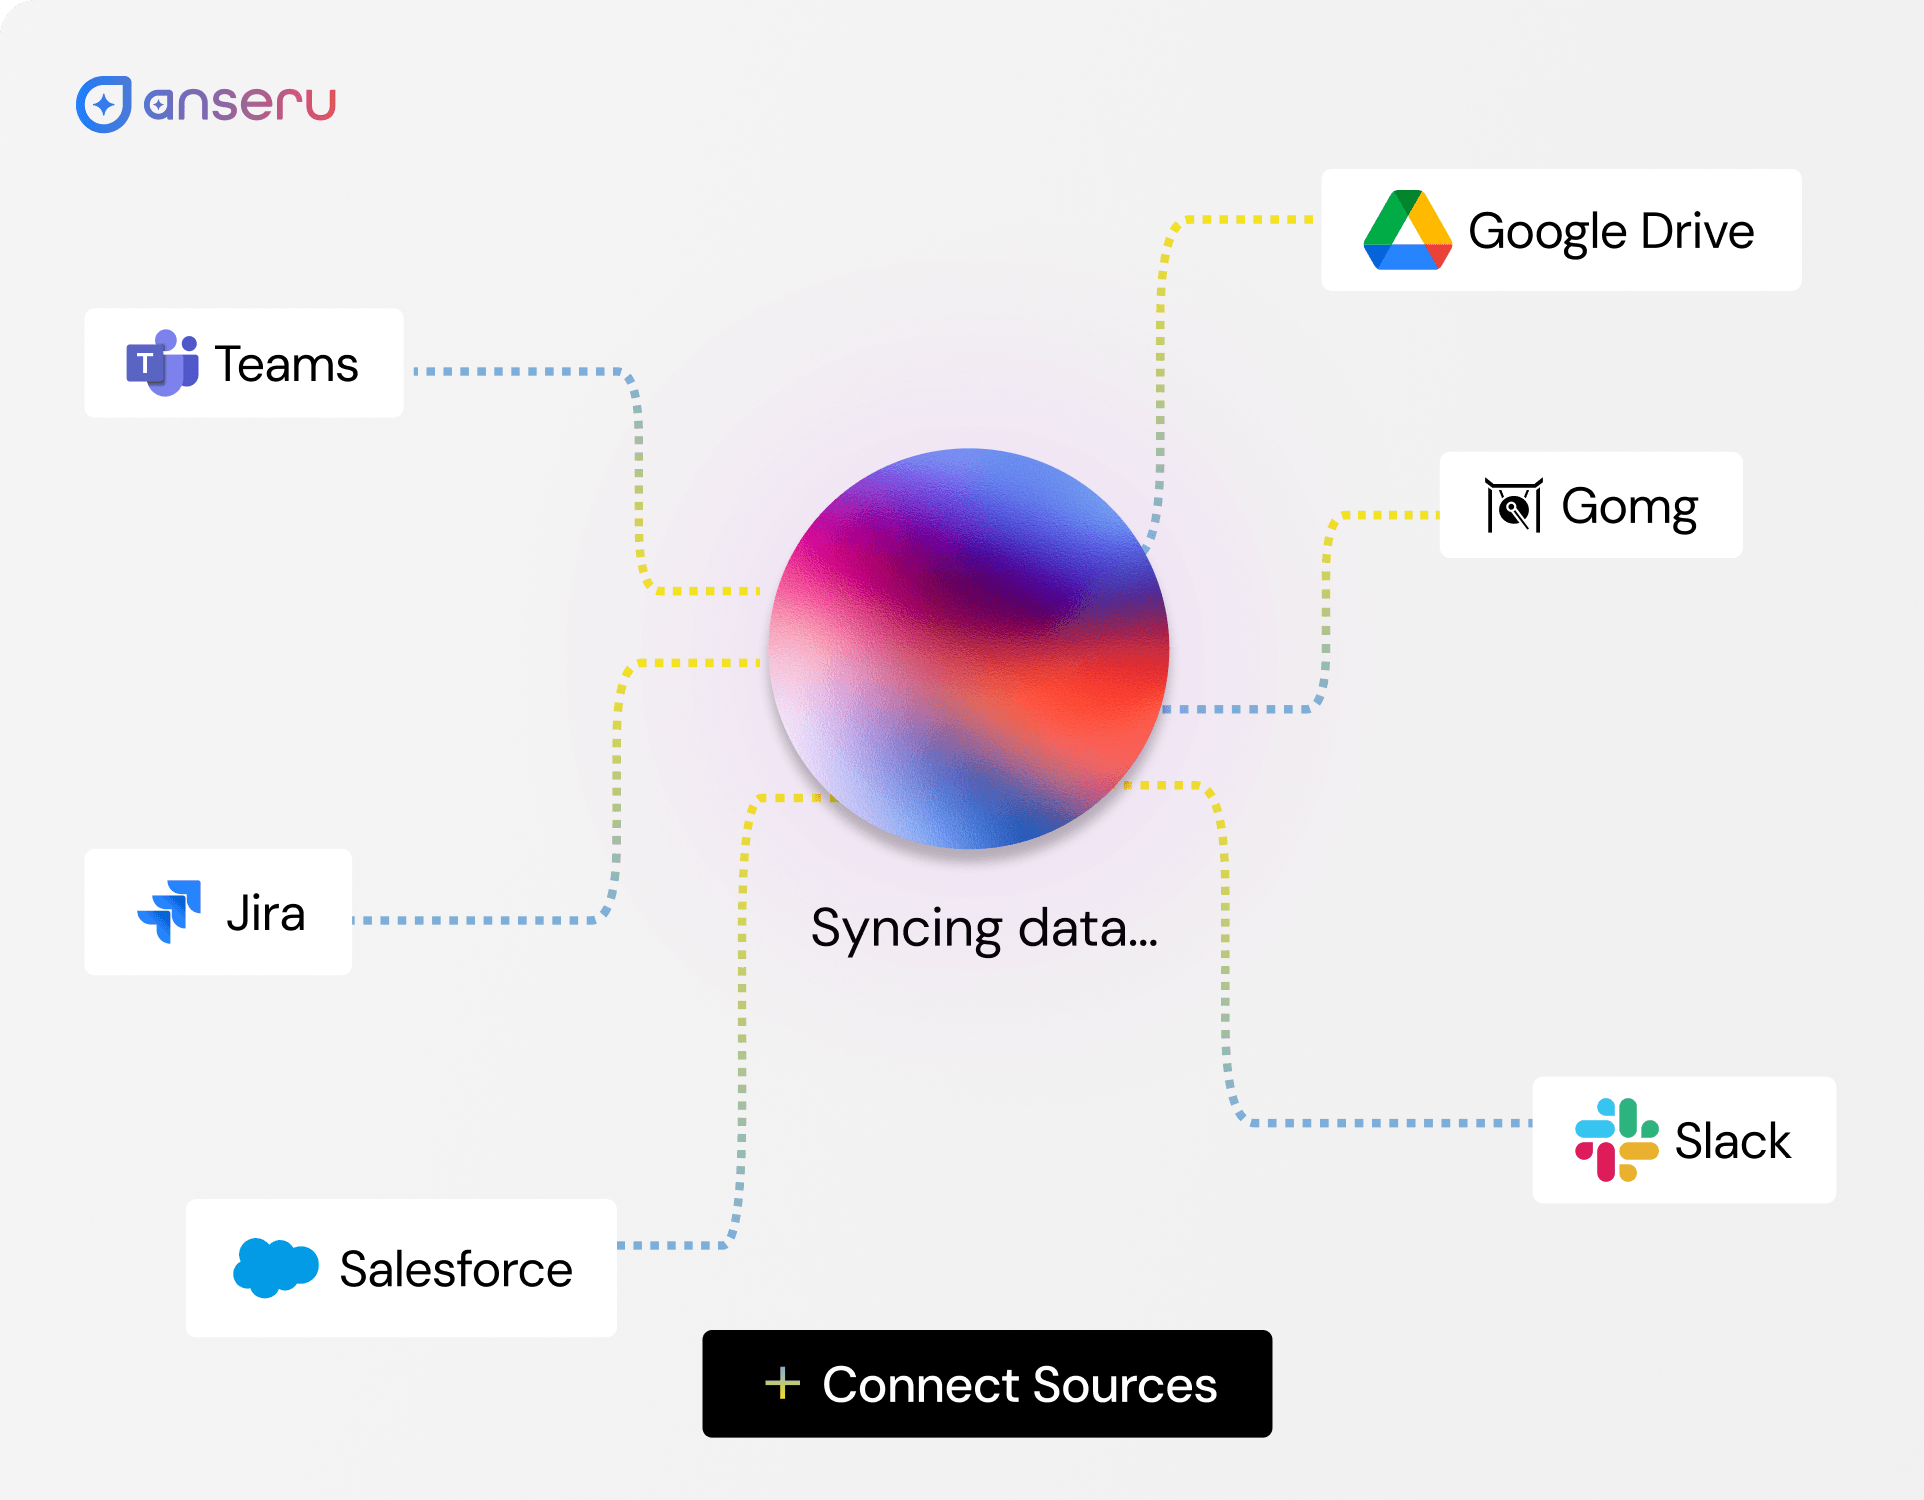
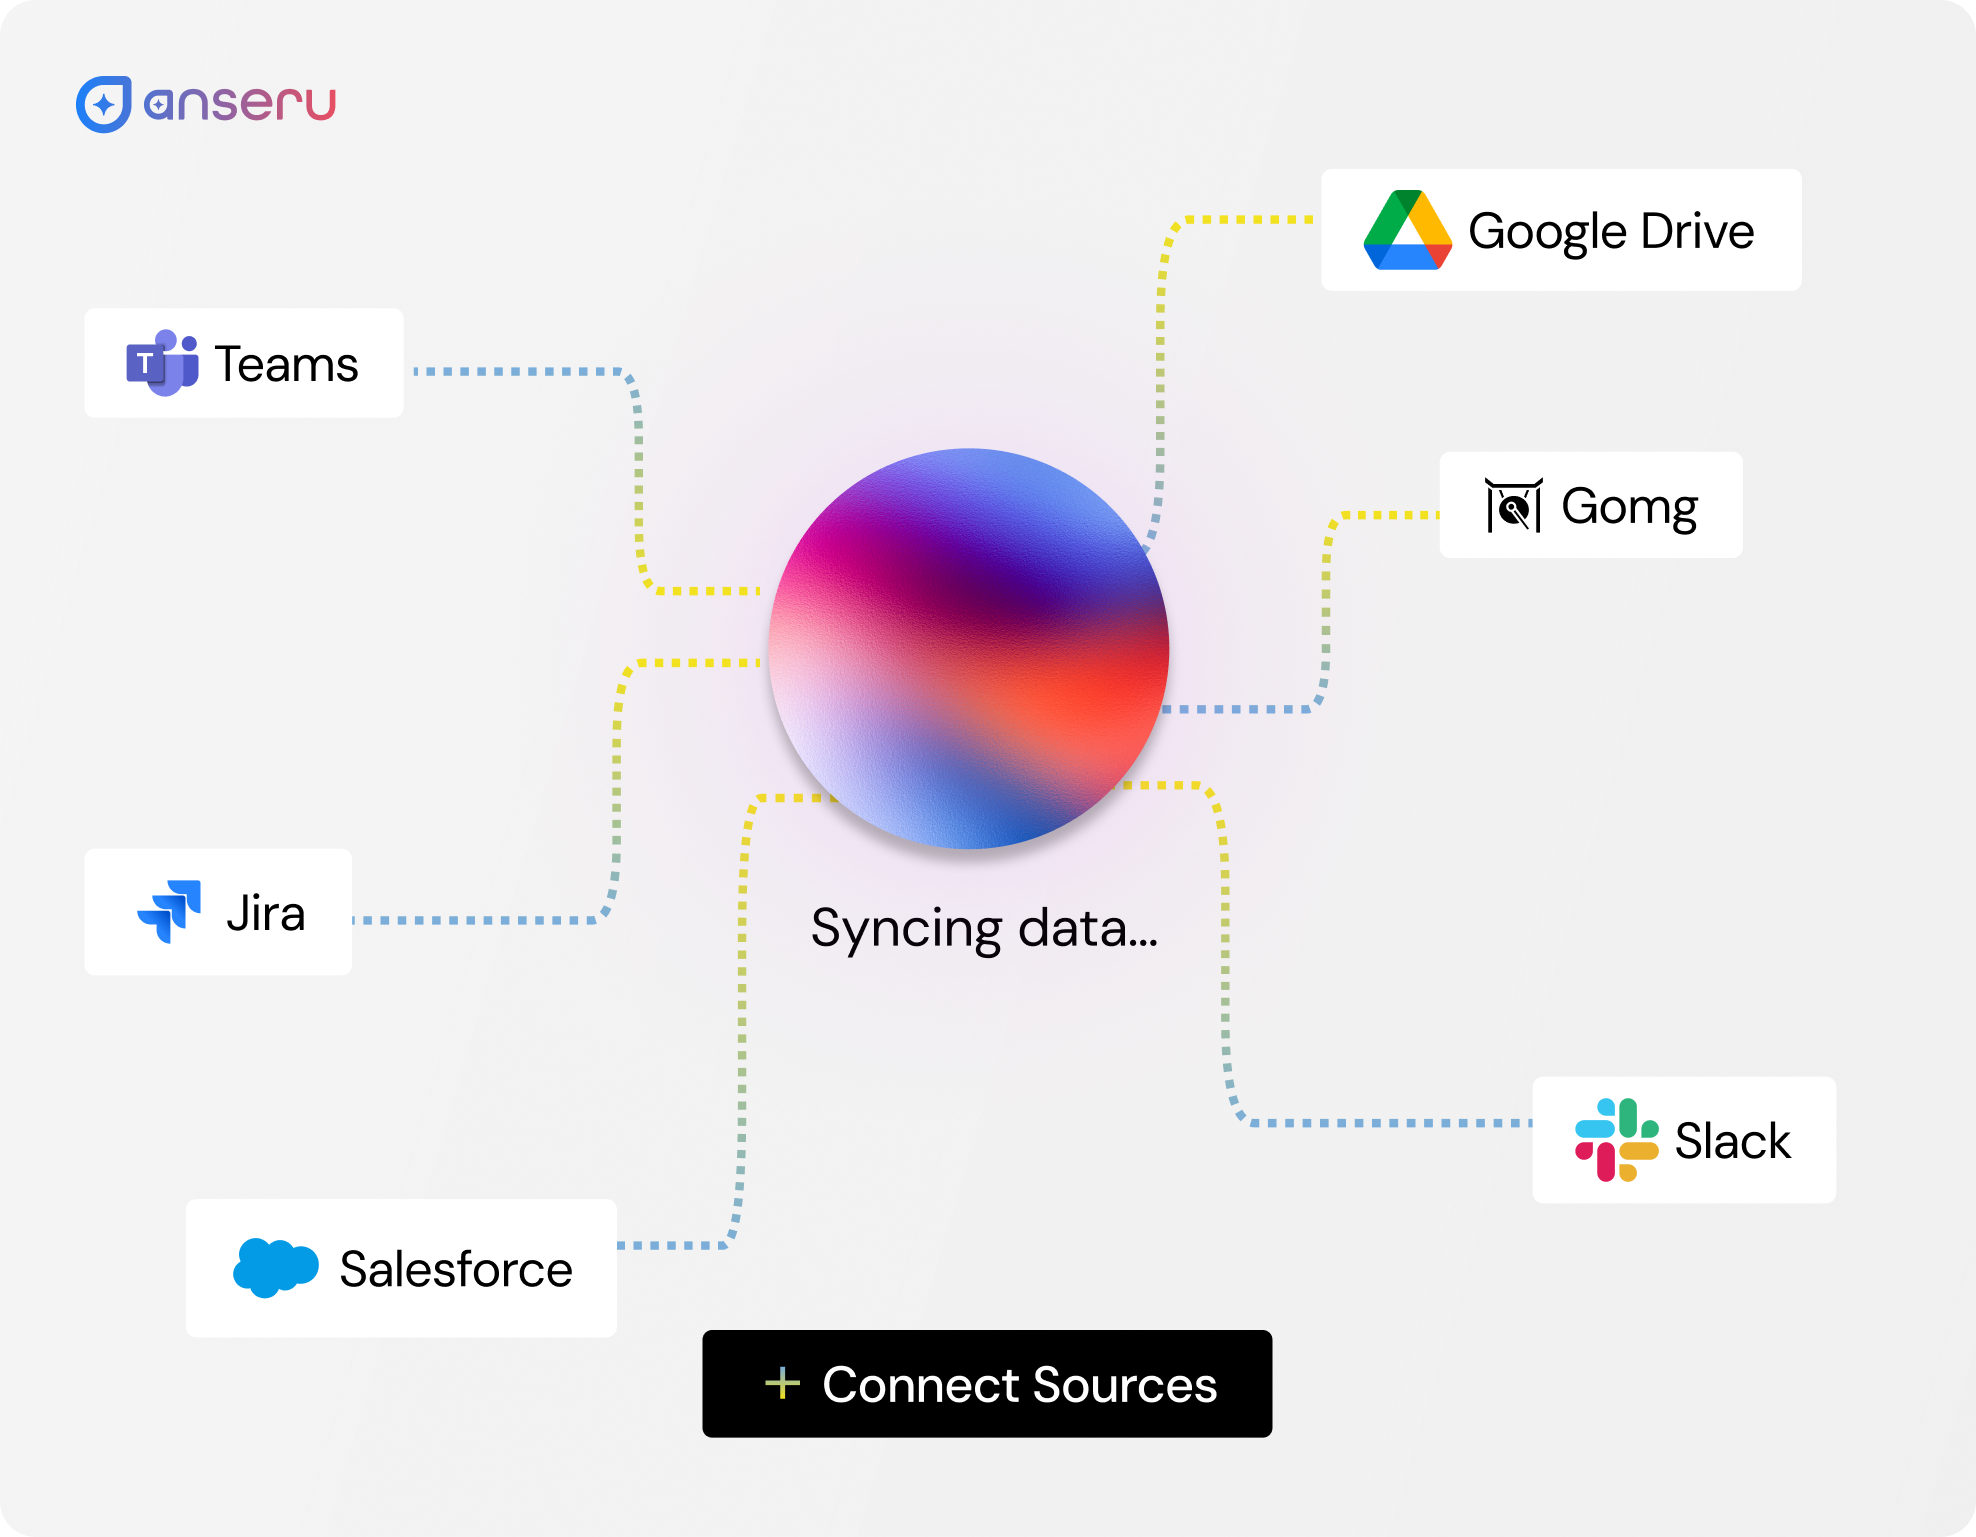
some sections modified

diff --git a/src/data/carousel.js b/src/data/carousel.js
@@ -1,7 +1,7 @@
 import slide1Img from '../assets/Intro-Page.webp';
-import slide2Img from '../assets/Intro Page (3).png';
-import slide3Img from '../assets/Intro Page (8).png';
-import slide4Img from '../assets/Intro Page (1).png';
+import slide2Img from '../assets/Intro Page (1).png';
+import slide3Img from '../assets/Intro Page (3).png';
+import slide4Img from '../assets/Intro Page (4).png';
 
 export const CAROUSEL_SLIDES = [
   {
